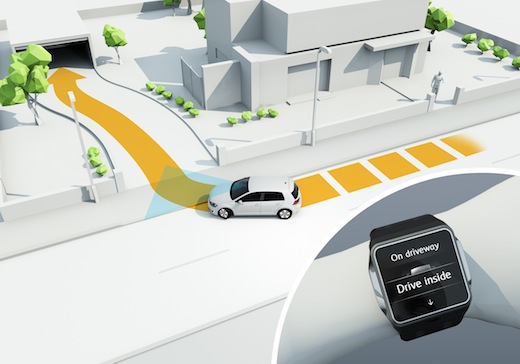
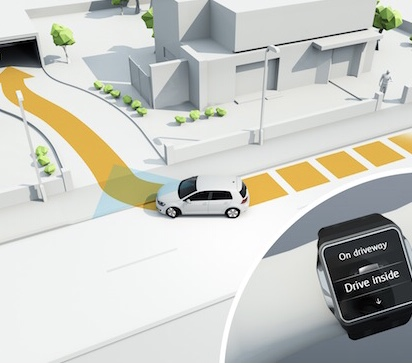
Updates

diff --git a/index.html b/index.html
@@ -500,7 +500,7 @@
 
                 <div class="project shadow-large">
                     <div class="project-image">
-                        <img src="images/ValetParking.jpg" height="453" width="300" />
+                        <img src="images/ValetParking.jpg" height="460" width="300" />
                     </div>
                     <!-- End .project-image -->
                     <div class="project-info">
